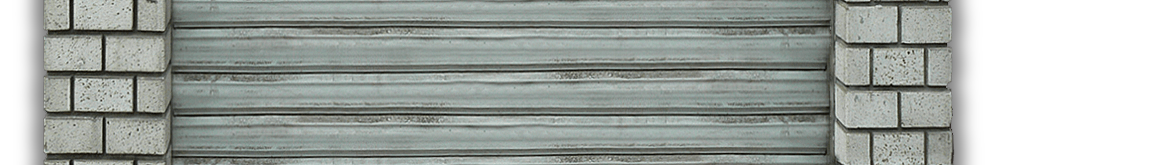
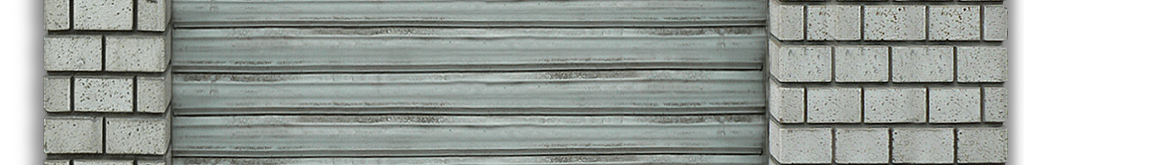
* sidebar is now bigger

diff --git a/micromix-theme-1/style.css b/micromix-theme-1/style.css
@@ -50,7 +50,6 @@ a:hover {
 /*ie7*/
 
 .clearfix { display:block; }
-* html .clearfix { height:1%; }
 /* FORMS */
 
 input,
@@ -100,7 +99,6 @@ select {
 #mainHeader h1 a:hover { text-indent:inherit; }
 #mainHeader .description { display:none; }
 #curtain { background:url(img/bg-curtain.png) center top repeat-y; }
-* html #curtain { background-image:url(img/ie6-bg-curtain.gif); }
 #mainContent {
 	width:1150px;
 	margin:0 auto;
@@ -115,7 +113,7 @@ select {
 }
 #column2 {
 	float:left;
-	width:674px;
+	width:610px;
 	padding:280px 0 0 0;
 }
 #column3 {
@@ -125,7 +123,7 @@ select {
 }
 /*article*/
 .article {
-	padding:0 0 30px 80px;
+	padding:0 0 30px 47px;
 	position:relative;
 	overflow:hidden;
 	zoom:1;
@@ -160,7 +158,7 @@ select {
 	font-size:2em;
 	padding:0 5px 3px 5px;
 	position:absolute;
-	left:83px;
+	left:49px;
 	top:50px;
 	line-height:1em;
 	opacity:0.8;
@@ -170,16 +168,14 @@ select {
 	left:52px;
 	top:48px;
 }
-* html .article h2 strong { left:-131px; }
 .article .date {
 	opacity:0.6;
 	filter:alpha(opacity=60);
 	padding:3px 0 0 0;
 	position:absolute;
-	left:83px;
+	left:49px;
 	top:96px;
 }
-* html .article .date { left:-131px; }
 .article .date small { background:#E6E8E7; }
 .page { padding:0 100px 120px 0; }
 .page p { padding:0 0 10px 0; }
